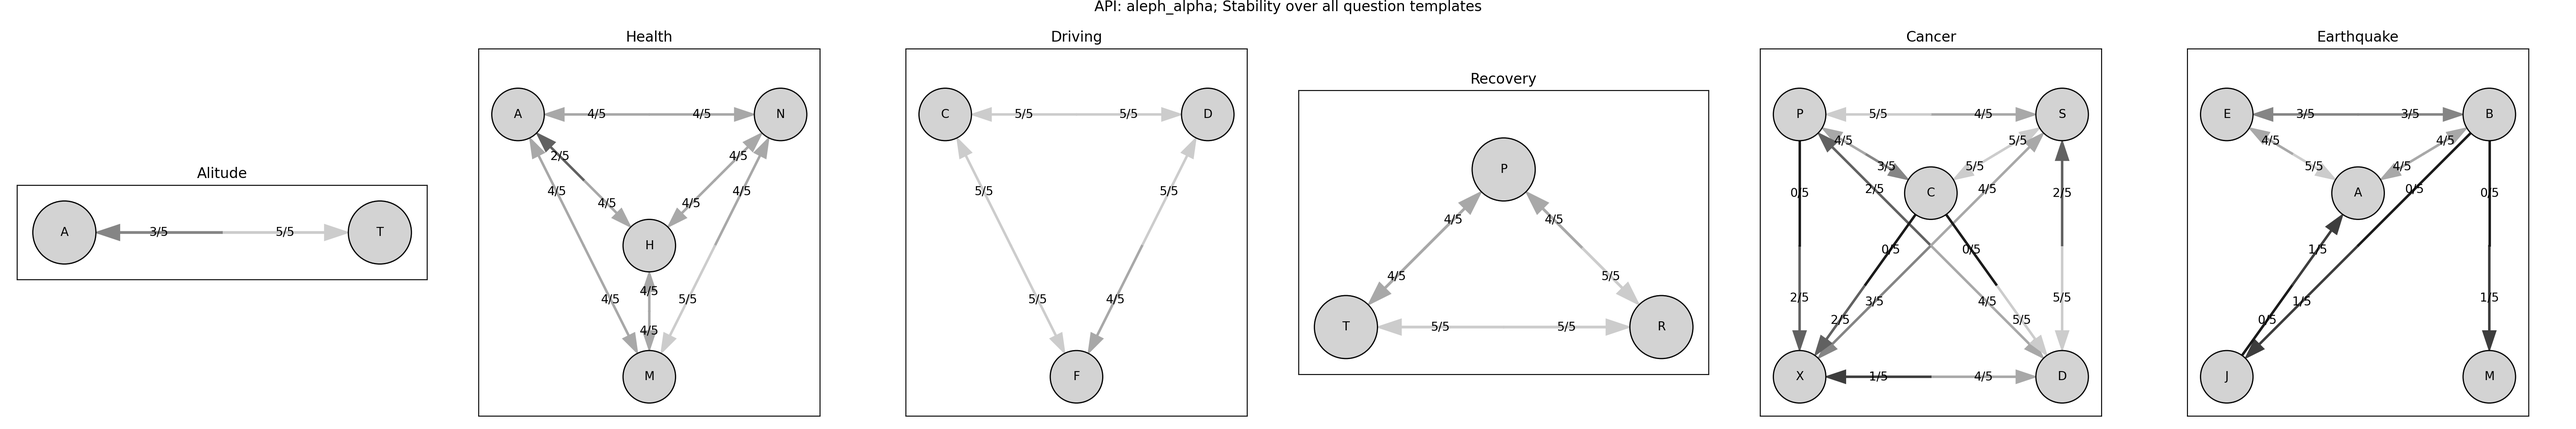
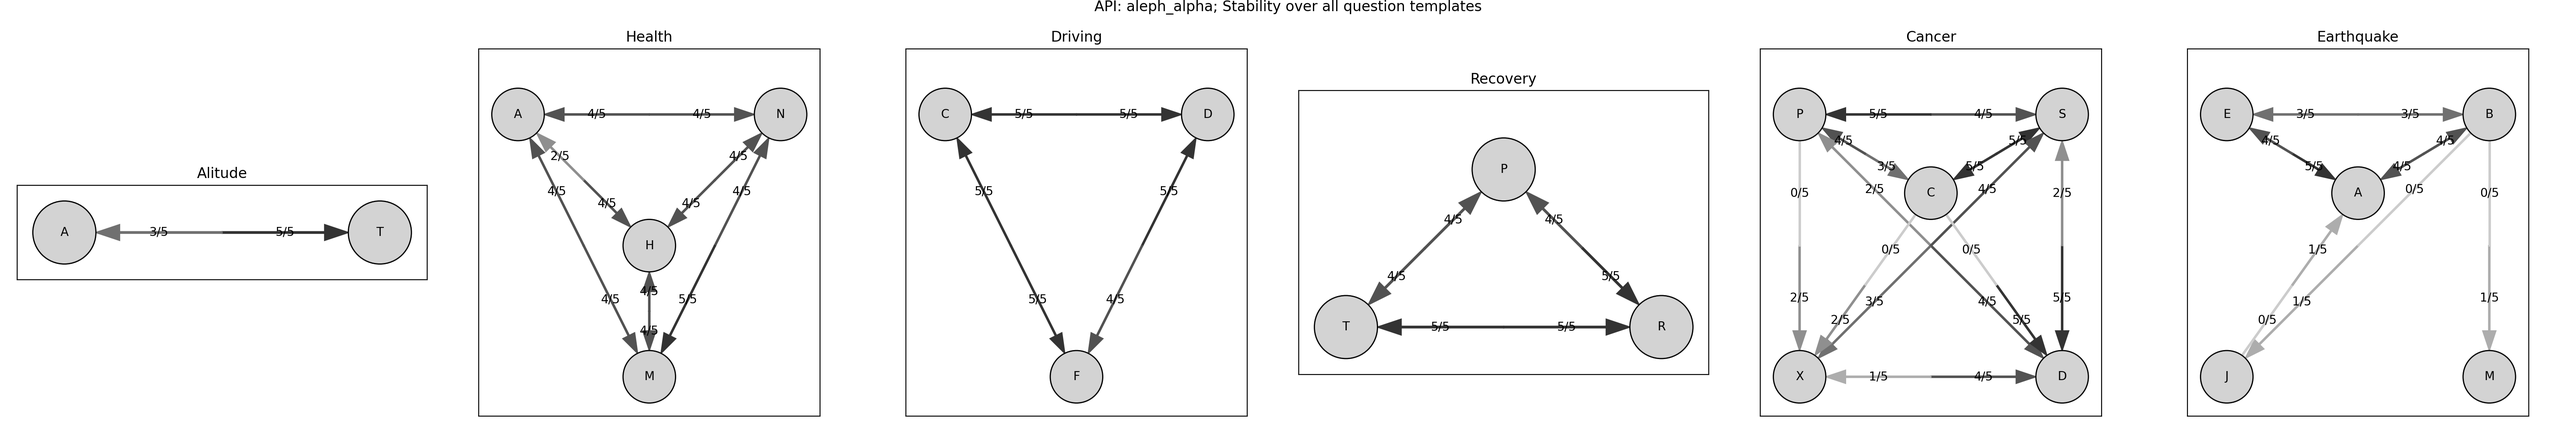
inversed strength color coding

diff --git a/plot.py b/plot.py
@@ -127,8 +127,11 @@ def draw_edge(p0, p1, f01, f10, pad, active_color=None, alt_color=None, mode=Non
             return
         c0, c1, c2 = active_color
         b0, b1, b2 = inactive_color
-        r_color01 = (lerp(b0, c0, f01), lerp(b1, c1, f01), lerp(b2, c2, f01))
-        r_color10 = (lerp(b0, c0, f10), lerp(b1, c1, f10), lerp(b2, c2, f10))
+
+        f01s = 1 - f01
+        f10s = 1 - f10
+        r_color01 = (lerp(b0, c0, f01s), lerp(b1, c1, f01s), lerp(b2, c2, f01s))
+        r_color10 = (lerp(b0, c0, f10s), lerp(b1, c1, f10s), lerp(b2, c2, f10s))
     elif mode == "diverging":
         has_no_connection = np.isnan(f01) or np.isnan(f10)
         # handle case where only one edge exists

diff --git a/plot_config.py b/plot_config.py
@@ -4,7 +4,7 @@
 #arrow_alternative_color = (0.05, 0.2, 0.8)  # green-blue-ish
 
 arrow_active_color = (0.8, 0.8, 0.8)
-arrow_inactive_color = (0.1, 0.1, 0.1)
+arrow_inactive_color = (0.2, 0.2, 0.2)
 arrow_alternative_color = (0.2, 0.2, 0.2)
 
 arrow_positive_color = (0.2, 0.8, 0.0)
